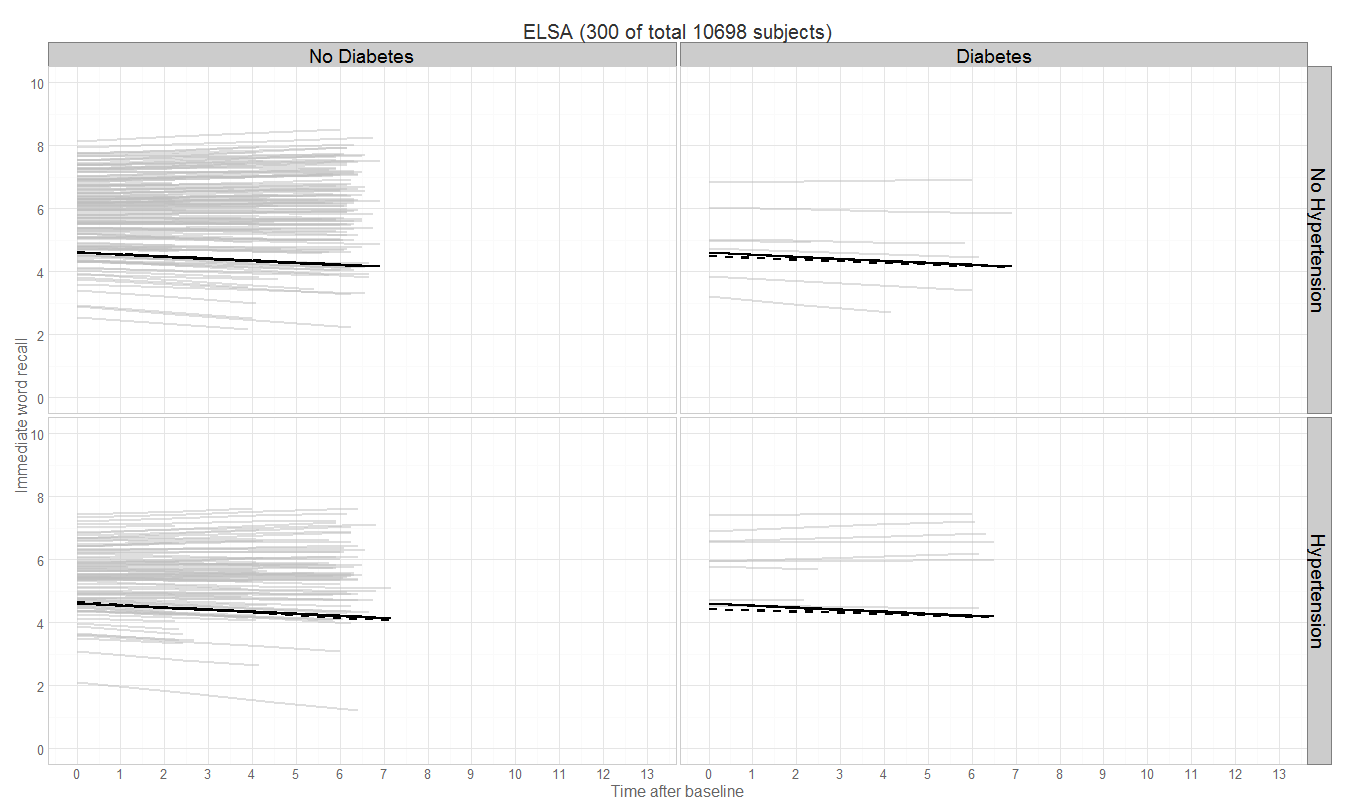
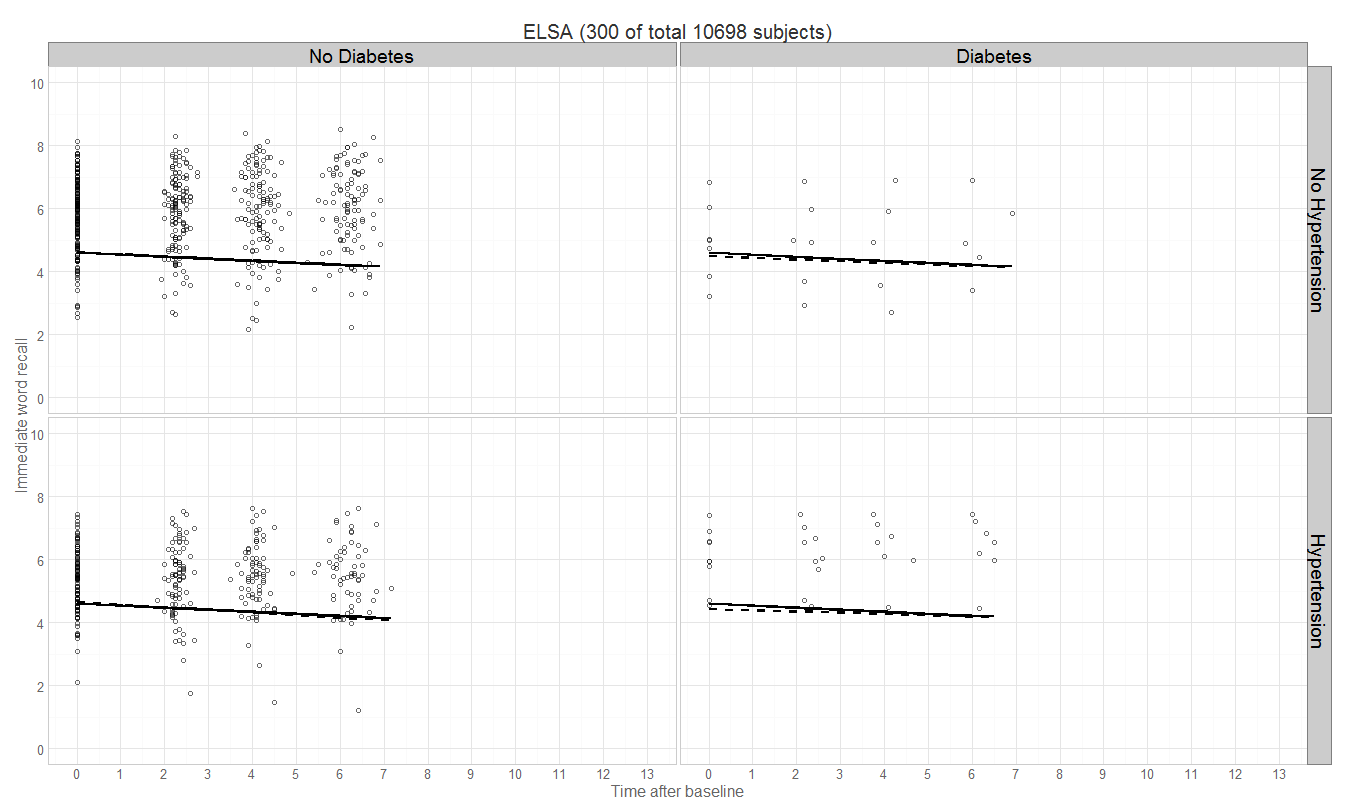
new graphs
@ampiccinin , please see the updated [Basic
Graph](https://github.com/IALSA/Diabetes-Tri-Study-public/blob/master/BasicGraphs.md)

diff --git a/BasicGraphs.md b/BasicGraphs.md
@@ -24,6 +24,32 @@
 
 
 
+
+# Effects & Trajectories
+
+- Thin **grey lines** are individual trajectoried computed from factor scores (slopes and intercepts) estimated by MPlus.  
+- **Solid line** is the main effect.  
+- **Dashed line** is the effect of HTN, DM, and HTNDM.  
+
+## ELSA  
+![](Basic_Graphs_rmd/observedLines_ELSA-1.png) 
+
+## OCTO 
+![](Basic_Graphs_rmd/observedLines_OCTO-1.png) 
+
+## RUSHc 
+![](Basic_Graphs_rmd/observedLines_RUSHc-1.png) 
+
+## RUSHe 
+![](Basic_Graphs_rmd/observedLines_RUSHe-1.png) 
+
+## RUSHl 
+![](Basic_Graphs_rmd/observedLines_RUSHl-1.png) 
+
+
+
+
+
 # Effects & Trajectories
 
 - Thin **grey lines** are individual trajectoried computed from factor scores (slopes and intercepts) estimated by MPlus.  
@@ -62,6 +88,9 @@
 
 ## RUSHl 
 ![](Basic_Graphs_rmd/trajBasic_RUSHl_scaled-1.png) 
+
+
+
 
 
 # Residuals
